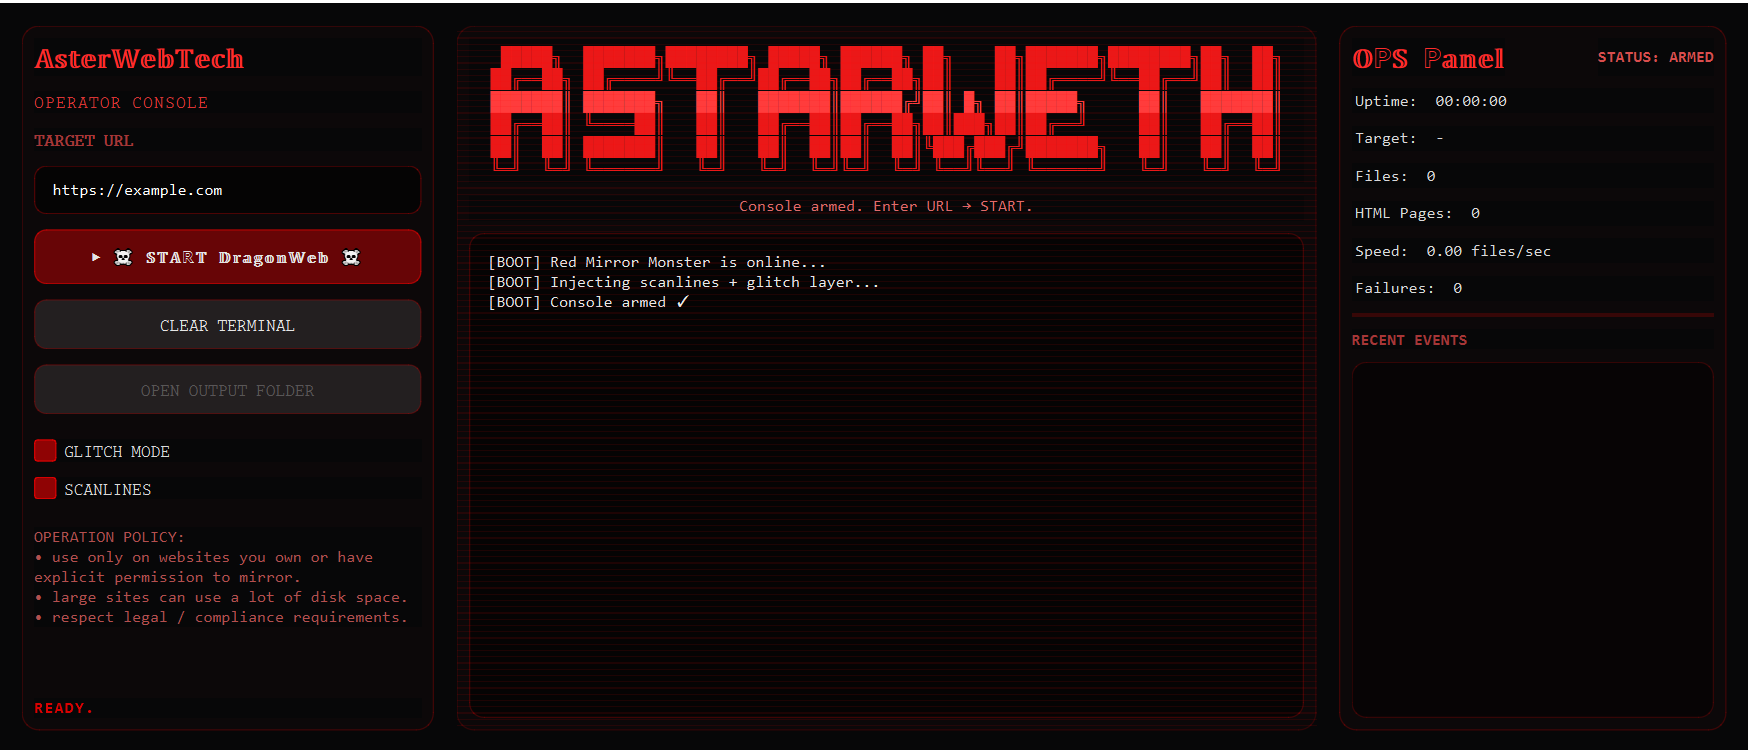
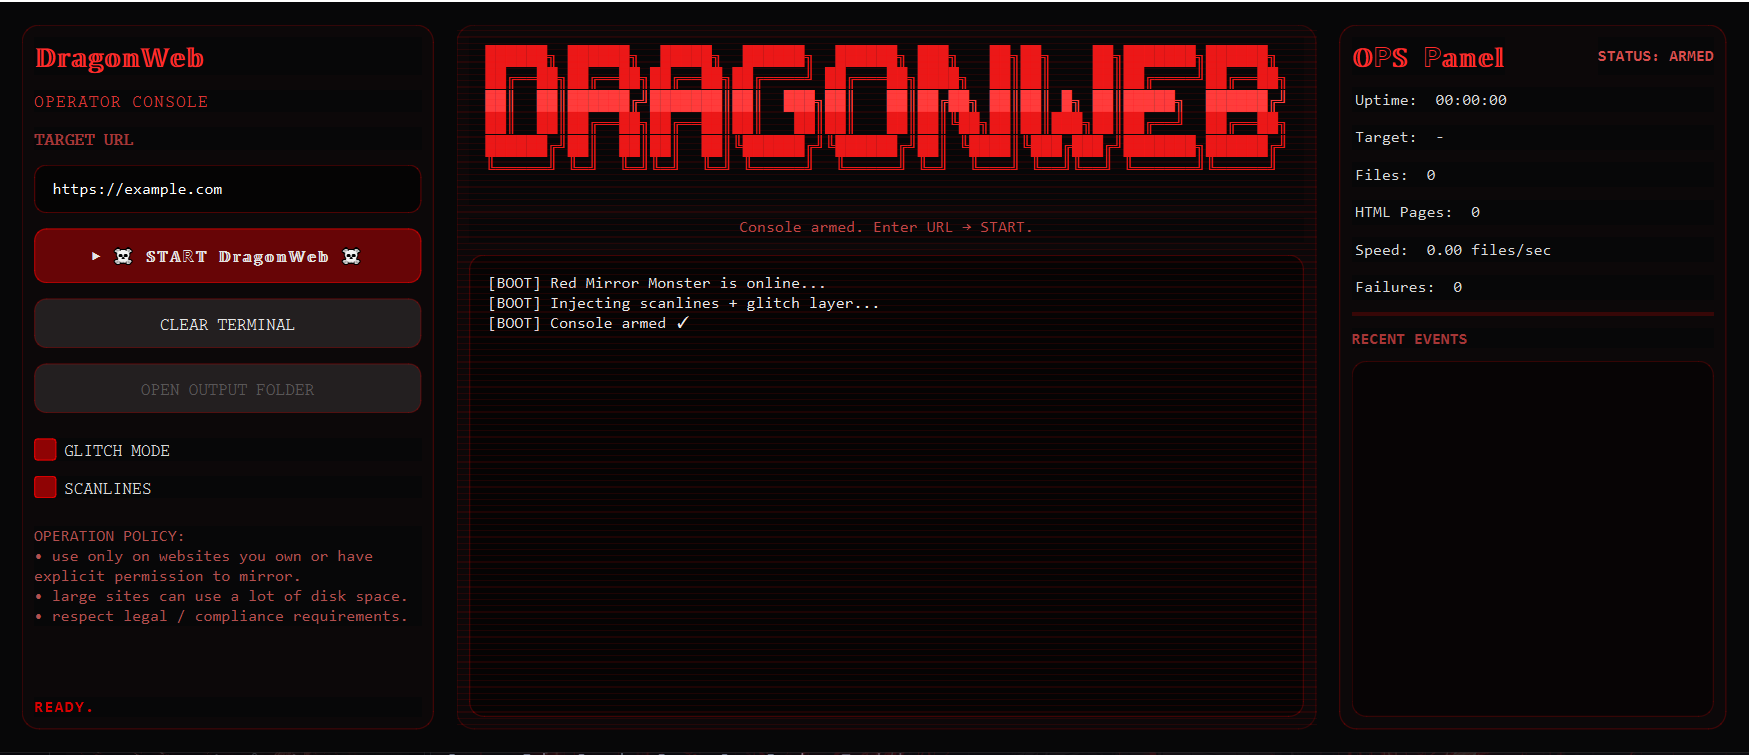
DragonWeb

diff --git a/DragonWeb/DragonWeb.py b/DragonWeb/DragonWeb.py
@@ -22,12 +22,13 @@ from PyQt6.QtGui import QDesktopServices
 # ===================== ASCII HEADER =====================
 ASCII_ART = r"""
 
- █████╗  ███████╗████████╗ █████╗ ██████╗ ██╗    ██╗███████╗████████╗██╗  ██╗
-██╔══██╗ ██╔════╝╚══██╔══╝██╔══██╗██╔══██╗██║    ██║██╔════╝╚══██╔══╝██║  ██║
-███████║ ███████╗   ██║   ███████║██████╔╝██║ █╗ ██║█████╗     ██║   ███████║
-██╔══██║ ╚════██║   ██║   ██╔══██║██╔══██╗██║███╗██║██╔══╝     ██║   ██╔══██║
-██║  ██║ ███████║   ██║   ██║  ██║██║  ██║╚███╔███╔╝███████╗   ██║   ██║  ██║
-╚═╝  ╚═╝ ╚══════╝   ╚═╝   ╚═╝  ╚═╝╚═╝  ╚═╝ ╚══╝╚══╝ ╚══════╝   ╚═╝   ╚═╝  ╚═╝
+██████╗ ██████╗  █████╗  ██████╗  ██████╗ ███╗   ██╗██╗    ██╗███████╗██████╗ 
+██╔══██╗██╔══██╗██╔══██╗██╔════╝ ██╔═══██╗████╗  ██║██║    ██║██╔════╝██╔══██╗
+██║  ██║██████╔╝███████║██║  ███╗██║   ██║██╔██╗ ██║██║ █╗ ██║█████╗  ██████╔╝
+██║  ██║██╔══██╗██╔══██║██║   ██║██║   ██║██║╚██╗██║██║███╗██║██╔══╝  ██╔══██╗
+██████╔╝██║  ██║██║  ██║╚██████╔╝╚██████╔╝██║ ╚████║╚███╔███╔╝███████╗██████╔╝
+╚═════╝ ╚═╝  ╚═╝╚═╝  ╚═╝ ╚═════╝  ╚═════╝ ╚═╝  ╚═══╝ ╚══╝╚══╝ ╚══════╝╚═════╝ 
+                                                                              
 """.strip("\n")
 
 ASCII_FONT_PX = 15
@@ -919,7 +920,7 @@ class MainWindow(QtWidgets.QMainWindow):
         left_l = QtWidgets.QVBoxLayout(left)
         left_l.setSpacing(12)
 
-        top_title = QtWidgets.QLabel("𝔸𝕤𝕥𝕖𝕣𝕎𝕖𝕓𝕋𝕖𝕔𝕙")
+        top_title = QtWidgets.QLabel("𝔻𝕣𝕒𝕘𝕠𝕟𝕎𝕖𝕓")
         top_title.setObjectName("leftTitle")
         left_l.addWidget(top_title)
 
